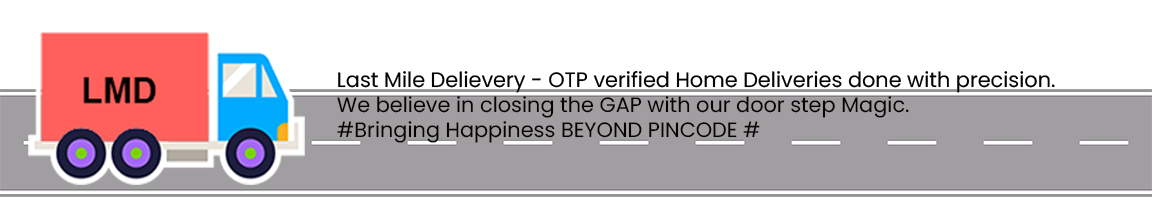
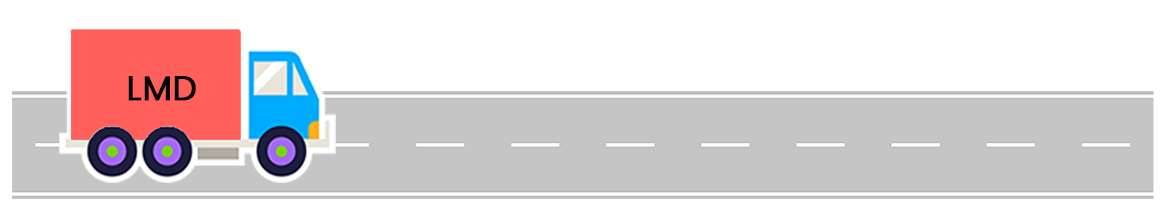
:)

diff --git a/index.html b/index.html
@@ -374,9 +374,12 @@
 
             <div class="spacer-xl"></div>
 
-            <div class="row service boxed">
-              <div class="row box-img">
-                <img src="./images/LMD-BACK.png" alt="">
+            <div class="row service"  style="position: relative; height: 250px;">
+              <div class="row">
+                <img style="position: absolute; opacity: 1;" src="./images/LMD-BACK.png" alt="" srcset="">
+                <div class="col-md-8 " style="margin-left: 350px; margin-top: 50px;">
+                  <p style="color: black; font-size: 2rem; font-weight: 500;">Last Mile Delievery - OTP verified Home Deliveries done with precision. We believe in closing the GAP with our door step Magic. #Bringing Happiness BEYOND PINCODE #</p>
+                </div>
               </div>
               <!-- <div class="row lmd-text">
                 <div class="col-md-8">
@@ -390,31 +393,27 @@
             </div>
             <hr class="lg" />
             <div class="spacer-sm"></div>
-            <div class="row service">
-              <div class="col-md-9">
-                <div class="row" style="padding-top: 50px">
-                  <div class="service-body">
-                    <div class="">
-                      <h1 data-animation="fadeInLeft">Outreach</h1>
-                      <p data-animation="fadeInDown">
-                        A strong Pan India Networking Infrastructure with more
-                        than 22 large warehousing facility along with multiple
-                        hubs that enables us in building Reach, Technology ,
-                        Reliability & Capability to deliver within TAT
-                      </p>
-                    </div>
-                  </div>
+            <div class="row service"  style="position: relative; height: 250px;">
+              <div class="row">
+                <img style="position: absolute; opacity: 1;" src="./images/outreach-back.png" alt="" srcset="">
+                <div class="col-md-8 " style=" margin-left: 10px; margin-top: 50px;">
+                  <p style="color: black; font-size: 2rem; font-weight: 500;">
+                    A strong Pan India Networking Infrastructure with more than 22 large warehousing facility along with multiple hubs that enables us in building Reach, Technology , Reliability & Capability to deliver within TAT 
+                  </p>
                 </div>
               </div>
-              <div class="col-md-3">
-                <div class="" data-animation="fadeInDown">
-                  <img
-                    style="padding-top: 50px"
-                    src="./images/OIP.jpg"
-                    alt="home-core"
-                    srcset=""
-                    class="img-responsive"
-                  />
+              
+            </div>
+
+            <hr class="lg" />
+            <div class="spacer-sm"></div>
+
+            <div class="row service"  style="position: relative; height: 250px;">
+              <div class="row">
+                <img style="position: absolute; opacity: 1;" src="./images/distribution-back.png" alt="" srcset="">
+                <div class="col-md-8 " style="margin-left: 350px; margin-top: 50px;">
+                  <p style="color: black; font-size: 2rem; font-weight: 500;"> 
+                    We believe in unleashing the Flow , Our Distribution Networks delivers Happiness to a customer's Finger Tips </p>
                 </div>
               </div>
             </div>
@@ -422,62 +421,16 @@
             <hr class="lg" />
             <div class="spacer-sm"></div>
 
-            <div class="row service">
-              <div class="col-md-3">
-                <div class="" data-animation="fadeInDown">
-                  <img
-                    style="padding-top: 20px"
-                    src="./images/distribution.png"
-                    alt="home-core"
-                    srcset=""
-                    class="img-responsive"
-                  />
+            <div class="row service"  style="position: relative; height: 250px;">
+              <div class="row">
+                <img style="position: absolute; opacity: 1;" src="./images/coustomer-service.png" alt="" srcset="">
+                <div class="col-md-8 " style=" margin-left: 10px; margin-top: 50px;">
+                  <p style="color: black; font-size: 2rem; font-weight: 500;">
+                    Aspire is focused on ELEVATING EXPERIENCES. ONE interaction at a TIME, Crafting Smiles & Solutions - Our Customer Service sets a Standard 
+                  </p>
                 </div>
               </div>
-              <div class="col-md-9">
-                <div class="row" style="padding-top: 50px">
-                  <div class="service-body">
-                    <div class="">
-                      <h1 data-animation="fadeInLeft">Distribution</h1>
-                      <p data-animation="fadeInDown">
-                        We believe in unleashing the Flow , Our Distribution
-                        Networks delivers Happiness to a customer's Finger Tips
-                      </p>
-                    </div>
-                  </div>
-                </div>
-              </div>
-            </div>
-
-            <hr class="lg" />
-            <div class="spacer-sm"></div>
-
-            <div class="row service">
-              <div class="col-md-9">
-                <div class="row" style="padding-top: 50px">
-                  <div class="service-body">
-                    <div class="">
-                      <h1 data-animation="fadeInLeft">Customer Service</h1>
-                      <p data-animation="fadeInDown">
-                        Aspire is focused on ELEVATING EXPERIENCES. ONE
-                        interaction at a TIME, Crafting Smiles & Solutions - Our
-                        Customer Service sets a Standard
-                      </p>
-                    </div>
-                  </div>
-                </div>
-              </div>
-              <div class="col-md-3">
-                <div class="" data-animation="fadeInDown">
-                  <img
-                    style="padding-top: 23px"
-                    src="./images/customer-service.jpeg"
-                    alt="home-core"
-                    srcset=""
-                    class="img-responsive"
-                  />
-                </div>
-              </div>
+              
             </div>
 
             <div class="spacer-xl"></div>
